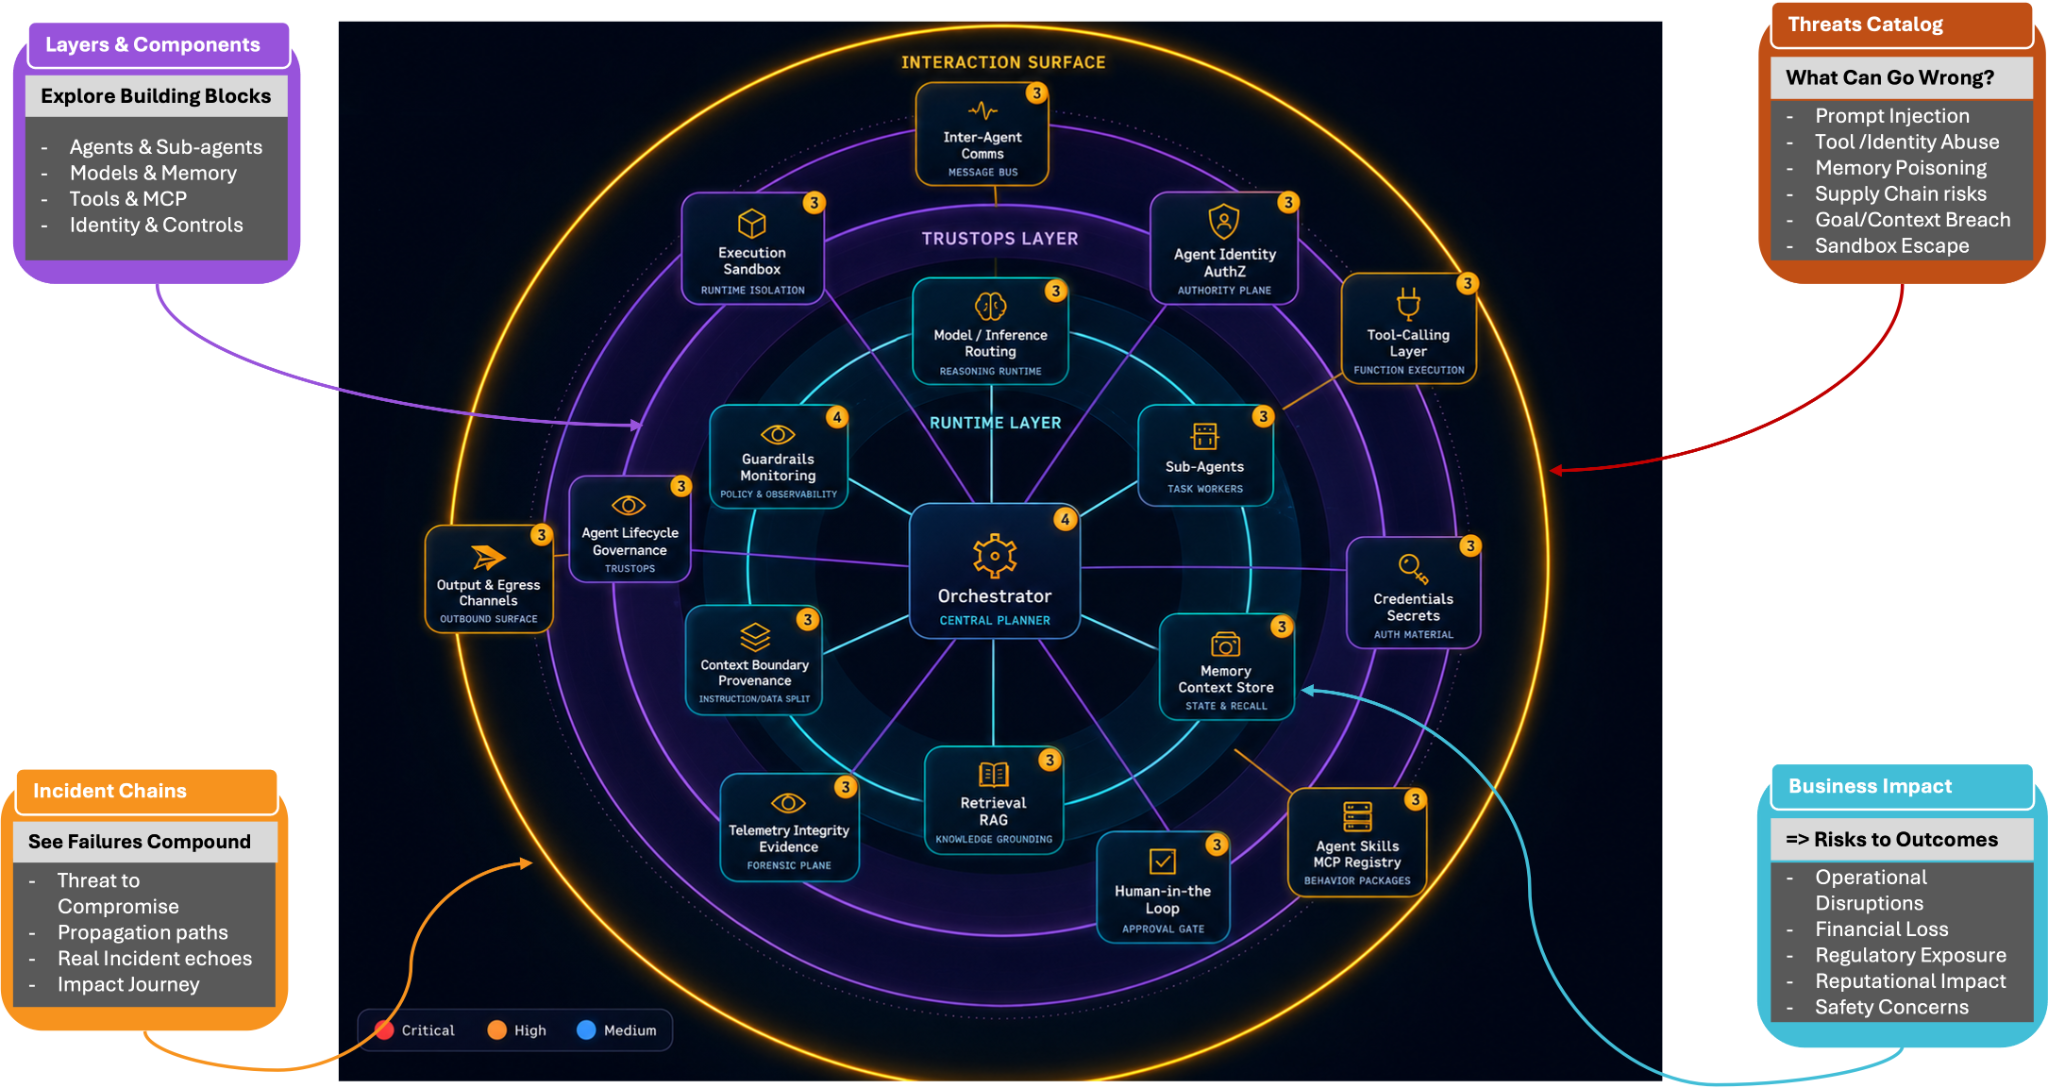
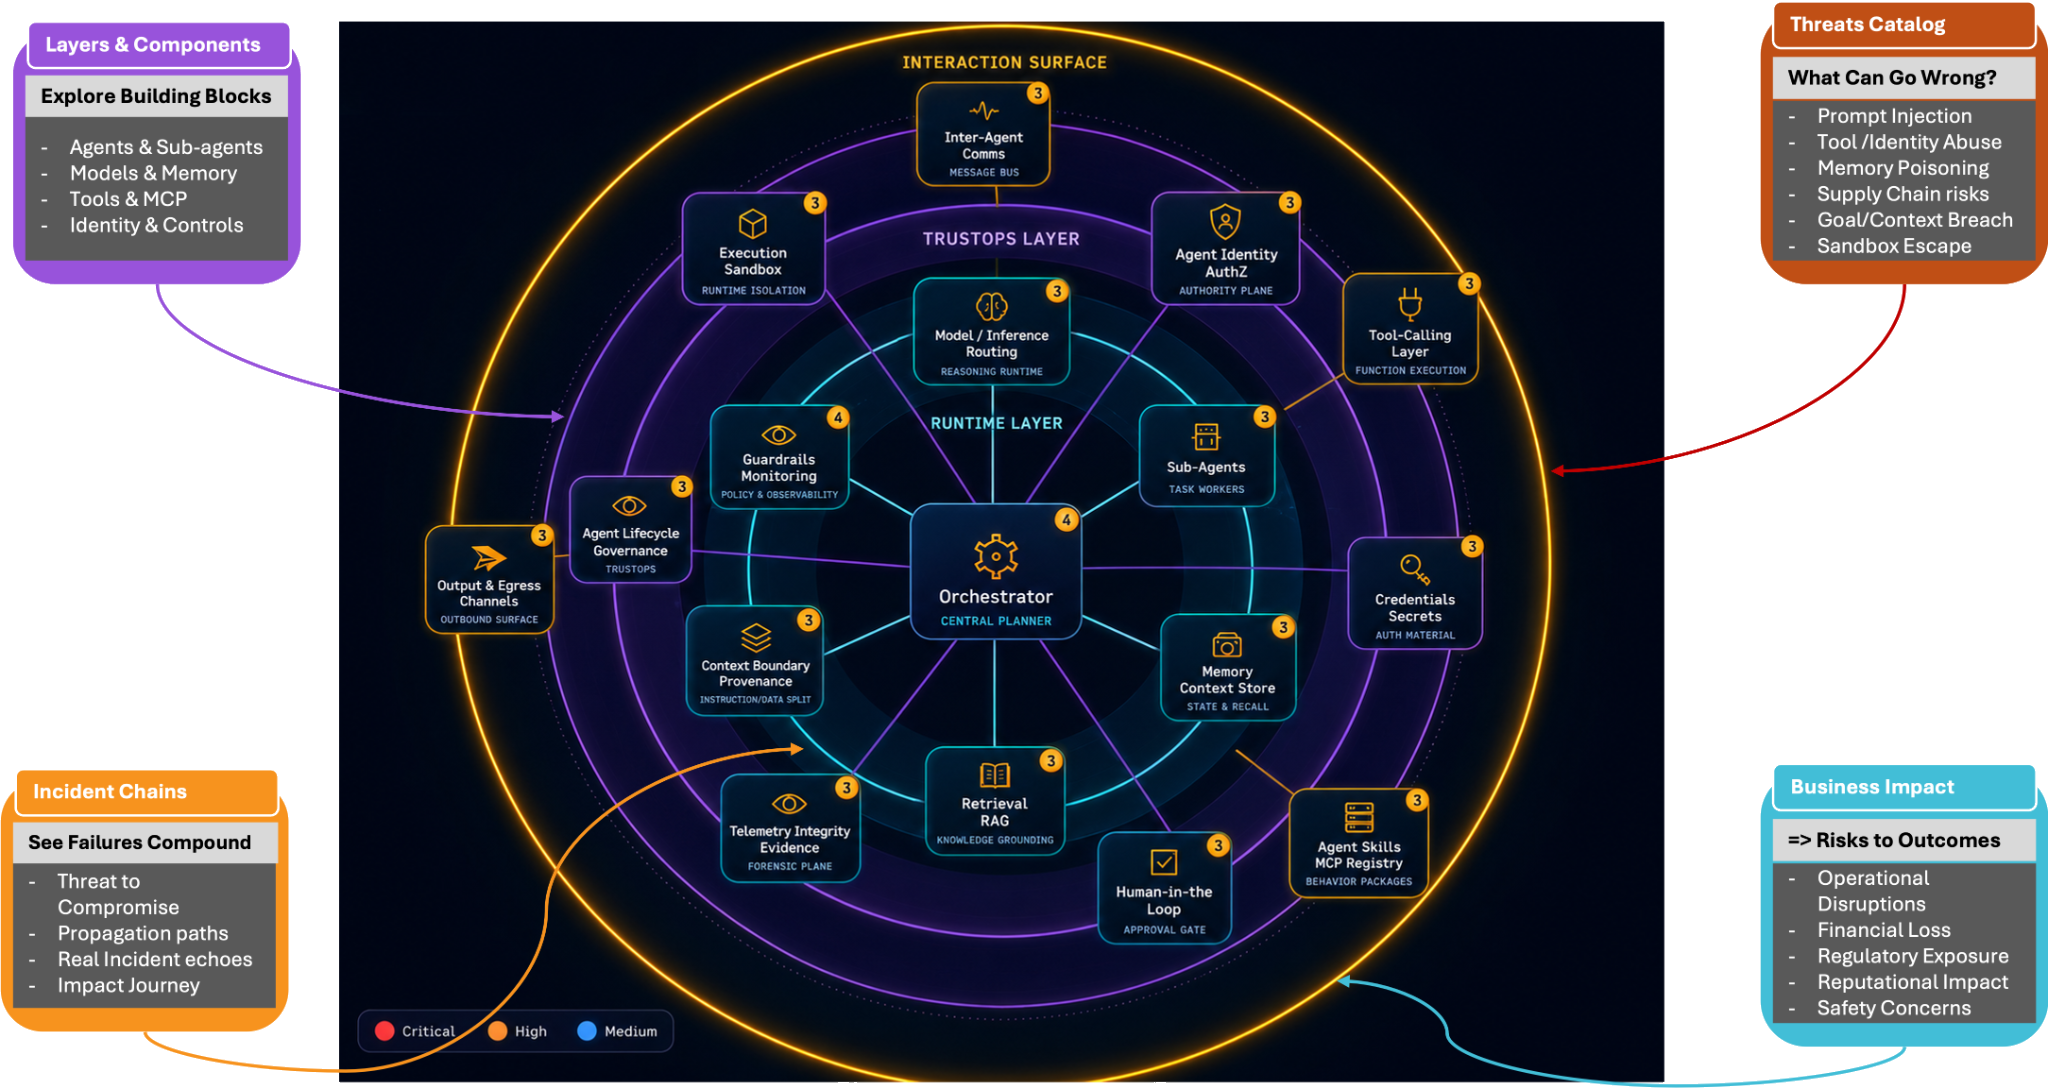
FinalFix

diff --git a/index.html b/index.html
@@ -1,1 +1,1 @@
-<!doctype html><html lang="en"><head><meta charset="utf-8"><meta name="viewport" content="width=device-width,initial-scale=1"><title>Agentic Security Explorer (ASE)</title><link rel="stylesheet" href="./css/main.css"><link rel="stylesheet" href="./css/mobile.css"><link rel="icon" type="image/png" sizes="32x32" href="./assets/brand/ase-favicon-32.png"><link rel="icon" type="image/png" sizes="16x16" href="./assets/brand/ase-favicon-16.png"><link rel="shortcut icon" href="./favicon.ico"></head><body data-page="home" data-data-prefix="./"><div class="app-shell"><header class="topbar"><div class="brand"><a class="brand-home" href="./index.html" aria-label="Go to ASE home"><img class="brand-logo" src="./assets/brand/ase-logo-wordmark.png" alt="ASE Agentic Security Explorer logo"></a><div class="brand-tagline">Explore • Understand • Secure</div><div class="brand-copy compact"><h1>Agentic Security Explorer (ASE)</h1><p>Learn Agentic Attack Surfaces, Risks, and Business Impact</p><div class="context">Home</div></div></div><nav class="nav"><a data-nav="home" href="./index.html">Home</a><a data-nav="explorer" href="./ase3.html">Explorer</a><a data-nav="guide" href="./guide/index.html">Business Guide</a><a data-nav="architecture" href="./architecture/index.html">Architecture</a><a data-nav="learning" href="./learning/index.html">Learning</a><a data-nav="about" href="./about/index.html">About</a></nav></header><main class="container"><section class="hero hero-grid"><div><h2>Agentic Security Explorer (ASE)</h2><h3>Explore the agentic AI attack surface</h3><p>Agentic Security Explorer (ASE) helps practitioners, leaders, students, and risk teams understand how autonomous agent systems are composed, where risks emerge, how failures chain across components, and what business impacts matter.</p><p>ASE is aligned with the <a class="satf-link" href="https://github.com/kamaldhingra1/secure-agent-trust-framework/" target="_blank" rel="noopener noreferrer">Secure Agent Trust Framework (SATF)</a>, a vendor-neutral framework for autonomous agent governance and contextual security.</p><div class="cta-row"><a class="btn primary" href="./ase3.html">Open Explorer</a><a class="btn" href="./guide/index.html">Learn Business Impact</a><a class="btn" href="./architecture/index.html">View Architecture</a></div></div><div class="ase-visual-frame"><img class="hero-visual annotated-wheel" src="./assets/images/ase-hero-annotated-dark.png" alt="Annotated ASE wheel showing layers, threats, incident chains, and business impact"></div></section><section class="section-title"><h2>What You'll Learn with ASE</h2><p class="muted">Components → Threats → Incident Chains → Business Impact</p><div class="home-wheel-grid"><div class="wheel-card"><img src="./assets/images/ase-wheel-screenshot.png" alt="Clean ASE wheel showing the agentic AI ecosystem"></div><div><div class="did-you-know"><h3>Did you know?</h3><p class="muted">ASE helps users explore 50+ agentic AI risks, realistic incident chains, and business outcomes across a layered agentic system model.</p></div><div class="grid"><article class="card"><h3>Layers & Components</h3><p class="muted">Explore agents, memory, tools, identity, runtime, and TrustOps layers.</p></article><article class="card"><h3>Threat Catalog</h3><p class="muted">Understand what can go wrong across the agentic attack surface.</p></article><article class="card"><h3>Incident Chains</h3><p class="muted">See how individual weaknesses compound into larger attack paths.</p></article><article class="card"><h3>Business Impact</h3><p class="muted">Connect technical risks to operational, financial, regulatory, and reputation outcomes.</p></article></div></div></div></section><section class="ask-ase" data-ask-ase><h3>Ask ASE Preview</h3><p class="muted">A lightweight preview assistant for common agentic AI security questions. Framework mapping stays optional.</p><div class="ask-ase-row"><input data-ask-input placeholder="Ask about memory, tools, identity, runtime, prompt injection, incident chains, or business impact"><button class="btn primary" data-ask-run>Ask ASE</button></div><div class="ask-ase-row"><button class="btn" data-ask-prompt="Explain prompt injection">Prompt injection</button><button class="btn" data-ask-prompt="How can tool abuse create business impact?">Tool abuse</button><button class="btn" data-ask-prompt="How should I protect agent memory?">Memory</button><button class="btn" data-ask-prompt="What runtime controls matter?">Runtime</button></div><div class="ask-ase-output" data-ask-output></div></section><section class="section-title"><h2>Security Patterns</h2><p class="muted">ASE v1.2 introduces framework-neutral security patterns. Optional framework mappings can be added later as overlays.</p></section><div class="pattern-list"><article class="pattern-card"><h3>Input & Context Validation</h3><p class="muted">Validate user input, retrieved context, and agent messages before decisions or actions.</p></article><article class="pattern-card"><h3>Tool Governance</h3><p class="muted">Constrain tool usage with authorization, allowlists, validation, and approval gates.</p></article><article class="pattern-card"><h3>Runtime Monitoring</h3><p class="muted">Observe, contain, and interrupt unsafe behavior during live execution.</p></article></div><section class="section-title"><h2>Choose a View</h2></section><div class="grid"><a class="guide-card-link" href="./ase3.html"><article class="card"><h3>Explorer</h3><p class="muted">Inspect agentic system components, risks, attack chains, and incident patterns through the interactive ASE map.</p></article></a><a class="guide-card-link" href="./guide/index.html"><article class="card"><h3>Business Guide</h3><p class="muted">Translate technical agentic AI risks into plain-language business value, control concerns, and impact outcomes.</p></article></a><a class="guide-card-link" href="./architecture/index.html"><article class="card"><h3>Architecture</h3><p class="muted">Understand how the agentic system operates through architecture diagrams, trust boundaries, and control placement.</p></article></a><a class="guide-card-link" href="./learning/index.html"><article class="card"><h3>Learning</h3><p class="muted">Start guided learning paths and linked ASE v1.1 modules.</p></article></a></div></main><footer class="footer">Agentic Security Explorer (ASE). Built to support practical learning for the <a class="satf-link" href="https://github.com/kamaldhingra1/secure-agent-trust-framework/" target="_blank" rel="noopener noreferrer">Secure Agent Trust Framework (SATF)</a>.</footer></div><script type="module" src="./js/app.js"></script><script src="./js/page-summary.js"></script><script src="./js/ask-ase.js"></script></body></html>
+<!doctype html><html lang="en"><head><meta charset="utf-8"><meta name="viewport" content="width=device-width,initial-scale=1"><title>Agentic Security Explorer (ASE)</title><link rel="stylesheet" href="./css/main.css"><link rel="stylesheet" href="./css/mobile.css"><link rel="icon" type="image/png" sizes="32x32" href="./assets/brand/ase-favicon-32.png"><link rel="icon" type="image/png" sizes="16x16" href="./assets/brand/ase-favicon-16.png"><link rel="shortcut icon" href="./favicon.ico"></head><body data-page="home" data-data-prefix="./"><div class="app-shell"><header class="topbar"><div class="brand"><a class="brand-home" href="./index.html" aria-label="Go to ASE home"><img class="brand-logo" src="./assets/brand/ase-logo-wordmark.png" alt="ASE Agentic Security Explorer logo"></a><div class="brand-tagline">Explore • Understand • Secure</div><div class="brand-copy compact"><h1>Agentic Security Explorer (ASE)</h1><p>Learn Agentic Attack Surfaces, Risks, and Business Impact</p><div class="context">Home</div></div></div><nav class="nav"><a data-nav="home" href="./index.html">Home</a><a data-nav="explorer" href="./ase3.html">Explorer</a><a data-nav="guide" href="./guide/index.html">Business Guide</a><a data-nav="architecture" href="./architecture/index.html">Architecture</a><a data-nav="learning" href="./learning/index.html">Learning</a><a data-nav="about" href="./about/index.html">About</a></nav></header><main class="container"><section class="hero hero-grid"><div><h2>Agentic Security Explorer (ASE)</h2><h3>Explore the agentic AI attack surface</h3><p>Agentic Security Explorer (ASE) helps practitioners, leaders, students, and risk teams understand how autonomous agent systems are composed, where risks emerge, how failures chain across components, and what business impacts matter.</p><p>ASE is aligned with the <a class="satf-link" href="https://github.com/kamaldhingra1/secure-agent-trust-framework/" target="_blank" rel="noopener noreferrer">Secure Agent Trust Framework (SATF)</a>, a vendor-neutral framework for autonomous agent governance and contextual security.</p><div class="cta-row"><a class="btn primary" href="./ase3.html">Open Explorer</a><a class="btn" href="./guide/index.html">Learn Business Impact</a><a class="btn" href="./architecture/index.html">View Architecture</a></div></div><div class="ase-visual-frame"><img class="hero-visual clean-wheel" src="./assets/images/ase-wheel-screenshot.png" alt="Clean ASE wheel showing the agentic AI ecosystem"></div></section><section class="section-title"><h2>What You'll Learn with ASE</h2><p class="muted">Components → Threats → Incident Chains → Business Impact</p><div class="home-wheel-grid"><div class="wheel-card annotated-card"><img class="learn-annotated-wheel" src="./assets/images/ase-hero-annotated-dark.png" alt="Annotated ASE wheel connecting components, threats, incident chains, and business impact"></div><div><div class="did-you-know"><h3>Did you know?</h3><p class="muted">ASE helps users explore 50+ agentic AI risks, realistic incident chains, and business outcomes across a layered agentic system model.</p></div><div class="grid"><article class="card"><h3>Layers & Components</h3><p class="muted">Explore agents, memory, tools, identity, runtime, and TrustOps layers.</p></article><article class="card"><h3>Threat Catalog</h3><p class="muted">Understand what can go wrong across the agentic attack surface.</p></article><article class="card"><h3>Incident Chains</h3><p class="muted">See how individual weaknesses compound into larger attack paths.</p></article><article class="card"><h3>Business Impact</h3><p class="muted">Connect technical risks to operational, financial, regulatory, and reputation outcomes.</p></article></div></div></div></section><section class="ask-ase" data-ask-ase><h3>Ask ASE Preview</h3><p class="muted">A lightweight preview assistant for common agentic AI security questions. Framework mapping stays optional.</p><div class="ask-ase-row"><input data-ask-input placeholder="Ask about memory, tools, identity, runtime, prompt injection, incident chains, or business impact"><button class="btn primary" data-ask-run>Ask ASE</button></div><div class="ask-ase-row"><button class="btn" data-ask-prompt="Explain prompt injection">Prompt injection</button><button class="btn" data-ask-prompt="How can tool abuse create business impact?">Tool abuse</button><button class="btn" data-ask-prompt="How should I protect agent memory?">Memory</button><button class="btn" data-ask-prompt="What runtime controls matter?">Runtime</button></div><div class="ask-ase-output" data-ask-output></div></section><section class="section-title"><h2>Security Patterns</h2><p class="muted">ASE v1.2 introduces framework-neutral security patterns. Optional framework mappings can be added later as overlays.</p></section><div class="pattern-list"><article class="pattern-card"><h3>Input & Context Validation</h3><p class="muted">Validate user input, retrieved context, and agent messages before decisions or actions.</p></article><article class="pattern-card"><h3>Tool Governance</h3><p class="muted">Constrain tool usage with authorization, allowlists, validation, and approval gates.</p></article><article class="pattern-card"><h3>Runtime Monitoring</h3><p class="muted">Observe, contain, and interrupt unsafe behavior during live execution.</p></article></div><section class="section-title"><h2>Choose a View</h2></section><div class="grid"><a class="guide-card-link" href="./ase3.html"><article class="card"><h3>Explorer</h3><p class="muted">Inspect agentic system components, risks, attack chains, and incident patterns through the interactive ASE map.</p></article></a><a class="guide-card-link" href="./guide/index.html"><article class="card"><h3>Business Guide</h3><p class="muted">Translate technical agentic AI risks into plain-language business value, control concerns, and impact outcomes.</p></article></a><a class="guide-card-link" href="./architecture/index.html"><article class="card"><h3>Architecture</h3><p class="muted">Understand how the agentic system operates through architecture diagrams, trust boundaries, and control placement.</p></article></a><a class="guide-card-link" href="./learning/index.html"><article class="card"><h3>Learning</h3><p class="muted">Start guided learning paths and linked ASE v1.1 modules.</p></article></a></div></main><footer class="footer">Agentic Security Explorer (ASE). Built to support practical learning for the <a class="satf-link" href="https://github.com/kamaldhingra1/secure-agent-trust-framework/" target="_blank" rel="noopener noreferrer">Secure Agent Trust Framework (SATF)</a>.</footer></div><script type="module" src="./js/app.js"></script><script src="./js/page-summary.js"></script><script src="./js/ask-ase.js"></script></body></html>

diff --git a/css/main.css b/css/main.css
@@ -12,7 +12,7 @@
 
 
 /* ASE v1.1.1 polish: user-supplied logo, wheel visuals, compact callouts */
-.brand-logo{height:46px;width:auto;max-width:285px;object-fit:contain;display:block;filter:drop-shadow(0 0 10px rgba(0,163,255,.25))}.brand-copy.compact{display:none}.topbar{gap:12px}.nav{flex:0 1 auto}.hero-visual.annotated-wheel{background:#0e151e;border-color:rgba(255,255,255,.16)}.did-you-know{border:1px solid rgba(232,163,61,.35);background:linear-gradient(135deg,rgba(232,163,61,.11),rgba(79,193,232,.06));border-radius:var(--radius);padding:16px;margin:20px 0}.did-you-know h3{margin:0 0 6px}.home-wheel-grid{display:grid;grid-template-columns:1fr 1fr;gap:18px;align-items:start}.learning-card:before{display:none}.topic-hero{grid-template-columns:1fr}.topic-hero > img{display:none}.hero-brand img{display:none}.summary-card{display:none !important}.mini-summary-callout{float:right;width:min(340px,100%);margin:0 0 14px 18px;border:1px solid rgba(79,193,232,.22);background:rgba(79,193,232,.07);border-radius:var(--radius);padding:14px}.mini-summary-callout h3{margin:0 0 6px}@media(max-width:1024px){.brand-logo{max-width:230px;height:42px}.nav a{font-size:12px;padding:7px 9px}}@media(max-width:860px){.brand-logo{max-width:156px;height:34px}.home-wheel-grid{grid-template-columns:1fr}.topbar{align-items:center}.brand{flex:0 0 auto}.nav{flex-wrap:nowrap;overflow-x:auto}.mini-summary-callout{float:none;margin:14px 0;width:100%}}
+.brand-logo{height:46px;width:auto;max-width:285px;object-fit:contain;display:block;filter:drop-shadow(0 0 10px rgba(0,163,255,.25))}.brand-copy.compact{display:none}.topbar{gap:12px}.nav{flex:0 1 auto}.hero-visual.clean-wheel{background:#0e151e;border-color:rgba(255,255,255,.16)}.did-you-know{border:1px solid rgba(232,163,61,.35);background:linear-gradient(135deg,rgba(232,163,61,.11),rgba(79,193,232,.06));border-radius:var(--radius);padding:16px;margin:20px 0}.did-you-know h3{margin:0 0 6px}.home-wheel-grid{display:grid;grid-template-columns:1fr 1fr;gap:18px;align-items:start}.learning-card:before{display:none}.topic-hero{grid-template-columns:1fr}.topic-hero > img{display:none}.hero-brand img{display:none}.summary-card{display:none !important}.mini-summary-callout{float:right;width:min(340px,100%);margin:0 0 14px 18px;border:1px solid rgba(79,193,232,.22);background:rgba(79,193,232,.07);border-radius:var(--radius);padding:14px}.mini-summary-callout h3{margin:0 0 6px}@media(max-width:1024px){.brand-logo{max-width:230px;height:42px}.nav a{font-size:12px;padding:7px 9px}}@media(max-width:860px){.brand-logo{max-width:156px;height:34px}.home-wheel-grid{grid-template-columns:1fr}.topbar{align-items:center}.brand{flex:0 0 auto}.nav{flex-wrap:nowrap;overflow-x:auto}.mini-summary-callout{float:none;margin:14px 0;width:100%}}
 
 
 /* ASE v1.2: Ask ASE preview and neutral security patterns */
@@ -25,3 +25,9 @@
 
 /* ASE v1.3 Risk-to-Defense polish */
 .brand-home{display:inline-flex;text-decoration:none;line-height:0}.brand-home:focus-visible{outline:2px solid var(--accent);outline-offset:4px;border-radius:10px}.hero.hero-grid h2{font-size:clamp(34px,5vw,58px);margin-bottom:6px}.hero.hero-grid h3{font-size:clamp(20px,2.4vw,30px);margin:0 0 14px;color:var(--accent)}.next-step{margin-top:12px;padding:10px;border:1px solid rgba(79,193,232,.22);background:rgba(79,193,232,.07);border-radius:10px}.framework-overlay{margin-top:10px;border:1px solid var(--hairline);border-radius:10px;padding:8px 10px;background:rgba(255,255,255,.025)}
+
+
+/* ASE v1.3.2 image swap and transparent annotation polish */
+.wheel-card.annotated-card{background:transparent;border:0;padding:0;box-shadow:none}
+.learn-annotated-wheel{display:block;width:100%;max-width:100%;border:0 !important;border-radius:14px;background:transparent}
+.hero-visual.clean-wheel{background:#0e151e}

diff --git a/css/guide.css b/css/guide.css
@@ -1,3 +1,2 @@
 
 .guide-filter{display:flex;gap:10px;margin:18px 0;align-items:center}.component-card .risk{border-top:1px solid var(--hairline);padding-top:10px;margin-top:10px}.impact-list{display:flex;gap:6px;flex-wrap:wrap}.impact-list span{border-radius:999px;background:rgba(255,255,255,.05);padding:4px 8px;color:var(--muted)}.guide-card-link{text-decoration:none}.guide-card-link .card{height:100%}
-

diff --git a/docs/ASE-v1.3.2-Visual-Swap-Notes.md b/docs/ASE-v1.3.2-Visual-Swap-Notes.md
@@ -1,0 +1,15 @@
+# ASE v1.3.2 Visual Swap Notes
+
+## Updated
+
+- Replaced the homepage hero image with the clean ASE wheel.
+- Moved the annotated ASE image into the `What You'll Learn with ASE` section where the text references Components -> Threats -> Incident Chains -> Business Impact.
+- Replaced the annotated image with the regenerated image and removed connected white/light background pixels from the image edges so it blends better with the dark ASE theme.
+- Removed the homepage CSS rule that forced the annotated image background to `#fff`.
+
+## Files touched
+
+- `index.html`
+- `css/main.css`
+- `assets/images/ase-hero-annotated-dark.png`
+- `assets/wheel/ase-hero-annotated.png`
